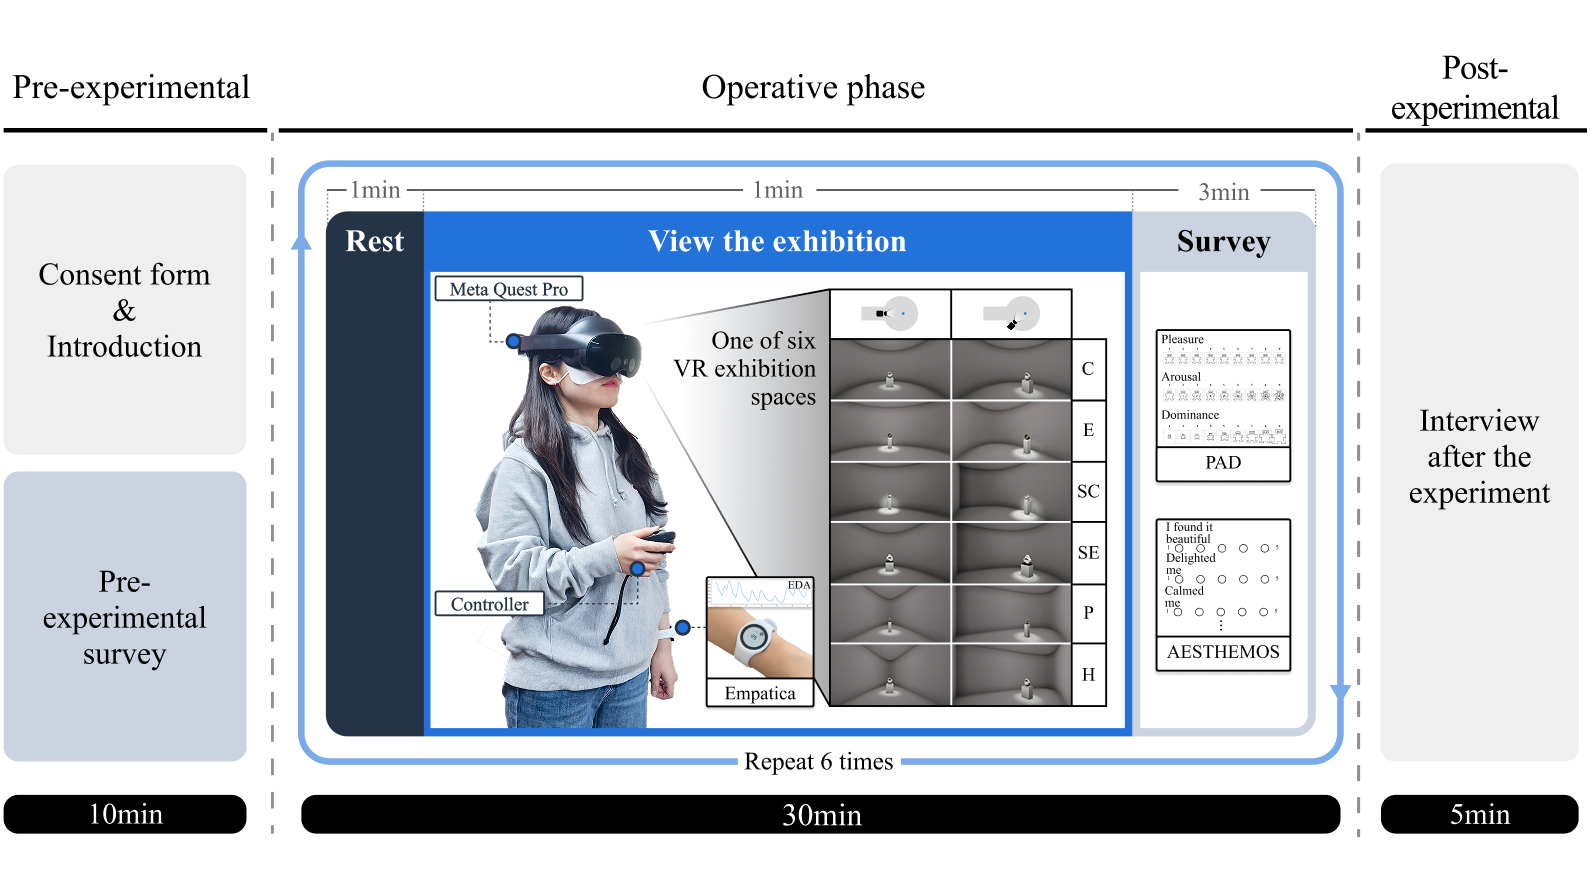
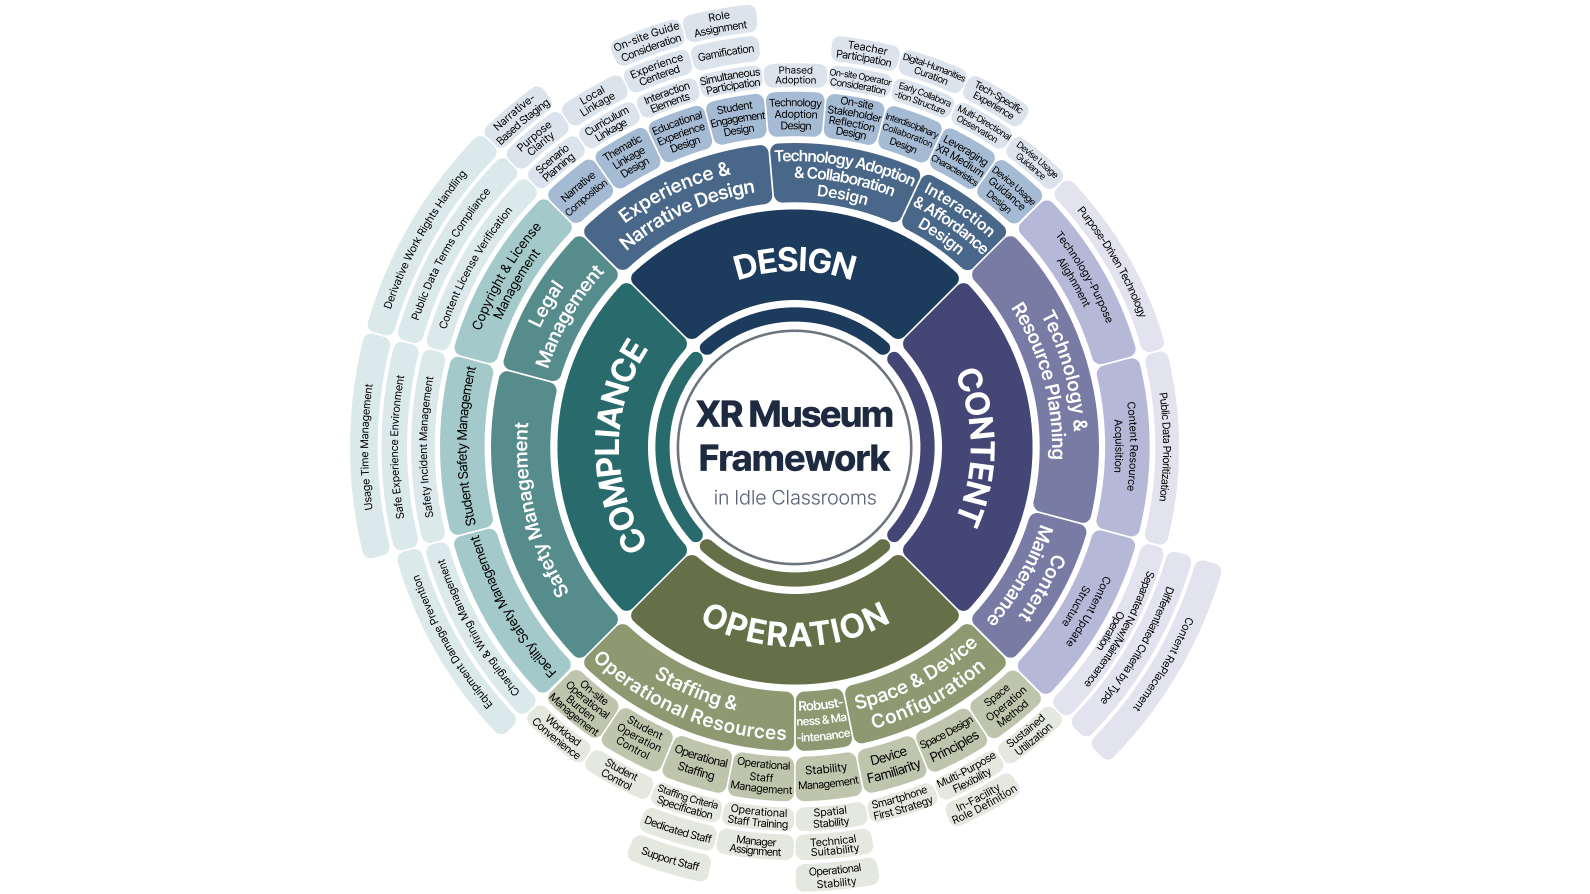
디지털 콘텐츠 학회 억셉

diff --git a/src/data/publications.ts b/src/data/publications.ts
@@ -36,25 +36,25 @@ export const publications: Publication[] = [
   {
     id: 'pub-16',
     status: 'Under Review',
+    type: 'Journal · SCIE Q1',
+    scope: 'Int.',
+    venue: 'Virtual Reality, Springer Nature',
+    title: 'Curve Type Matters: Emotional and Physiological Responses to Curved Walls in Virtual Reality Exhibition Space',
+    authors: 'Sun Ah Bae, Jisoo Kang, Seung Hyun Cha',
+    year: '2027',
+    thumbnails: ['/images/pub-16.png'],
+  },
+  {
+    id: 'pub-15',
     type: 'Journal · KCI',
     scope: 'Dom.',
     venue: 'Journal of Digital Contents Society, 2026',
     title: 'A Framework for XR Museums in Idle School Classrooms: An Implementation Strategy to Mitigate Cultural Accessibility Gaps  (학교 유휴교실 기반 XR 박물관 프레임워크: 문화접근성 격차 완화를 위한 구축 전략)',
     authors: 'Sun Ah Bae, SeoHyun Bae, Hyun Woo Kim, Seung Hyun Cha',
     year: '2026',
-    thumbnails: ['/images/pub-16.png'],
-  },
-  {
-    id: 'pub-15',
-    status: 'Under Review',
-    type: 'Journal · SCIE Q1',
-    scope: 'Int.',
-    venue: 'Virtual Reality, Springer Nature',
-    title: 'Curve Type Matters: Emotional and Physiological Responses to Curved Walls in Virtual Reality Exhibition Space',
-    authors: 'Sun Ah Bae, Jisoo Kang, Seung Hyun Cha',
-    year: '2026',
     thumbnails: ['/images/pub-15.png'],
   },
+  
    {
     id: 'pub-14',
     type: 'Conference',

diff --git a/src/data/news.ts b/src/data/news.ts
@@ -15,17 +15,24 @@ export interface NewsItem {
 // (e.g. '#pub-11') so clicking scrolls to that item in the Publication section.
 export const news: NewsItem[] = [
   {
+    date: '2026.09',
+    kind: 'paper',
+    kindLabel: 'Paper',
+    href: '#pub-15', // "Virtual reality transition to underground"
+    html: '"A Framework for XR Museums in Idle School Classrooms: An Implementation Strategy to Mitigate Cultural Accessibility Gaps" accepted to <strong>Journal of Digital Contents Society</strong> (KCI)',
+  },
+  {
     date: '2026.06',
     kind: 'paper',
     kindLabel: 'Paper',
     href: '#pub-11', // "Virtual reality transition to underground"
-    html: '"Virtual reality transition to underground" accepted to <strong>Scientific Reports</strong> (SCIE Q1)',
+    html: '"Virtual reality transition to underground: human responses across sequential spatial transitions" accepted to <strong>Scientific Reports</strong> (SCIE Q1)',
   },
   {
     date: '2026.06',
     kind: 'paper',
     kindLabel: 'Paper',
     href: '#pub-10', // "The Effect of Artwork Size on Visitor Attention"
-    html: '"The Effect of Artwork Size on Visitor Attention" accepted to <strong>Design Computing and Cognition \'26</strong>',
+    html: '"The Effect of Artwork Size on Visitor Attention in Museum Curatorial Arrangement" accepted to <strong>Design Computing and Cognition \'26</strong>',
   },
 ];
